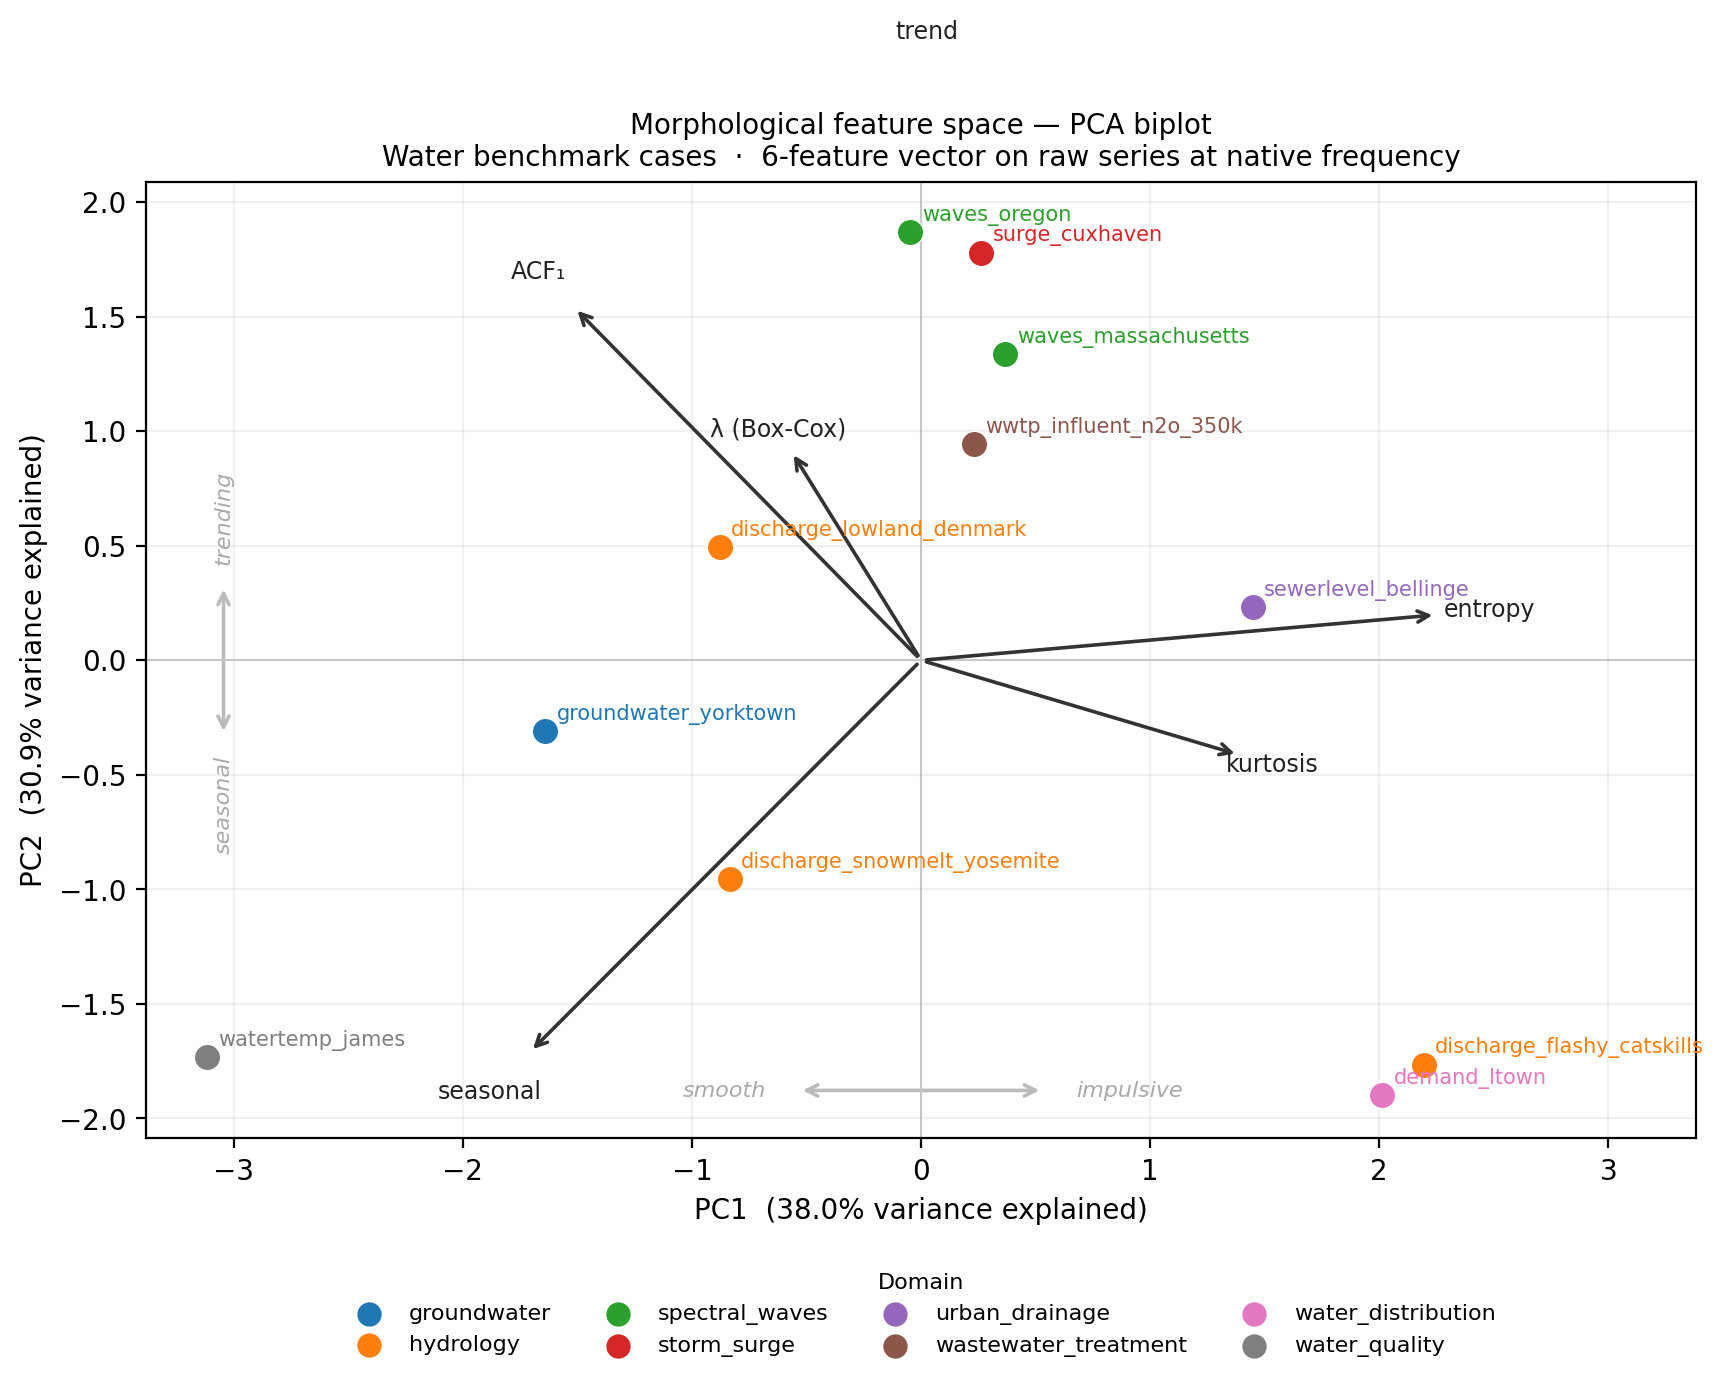
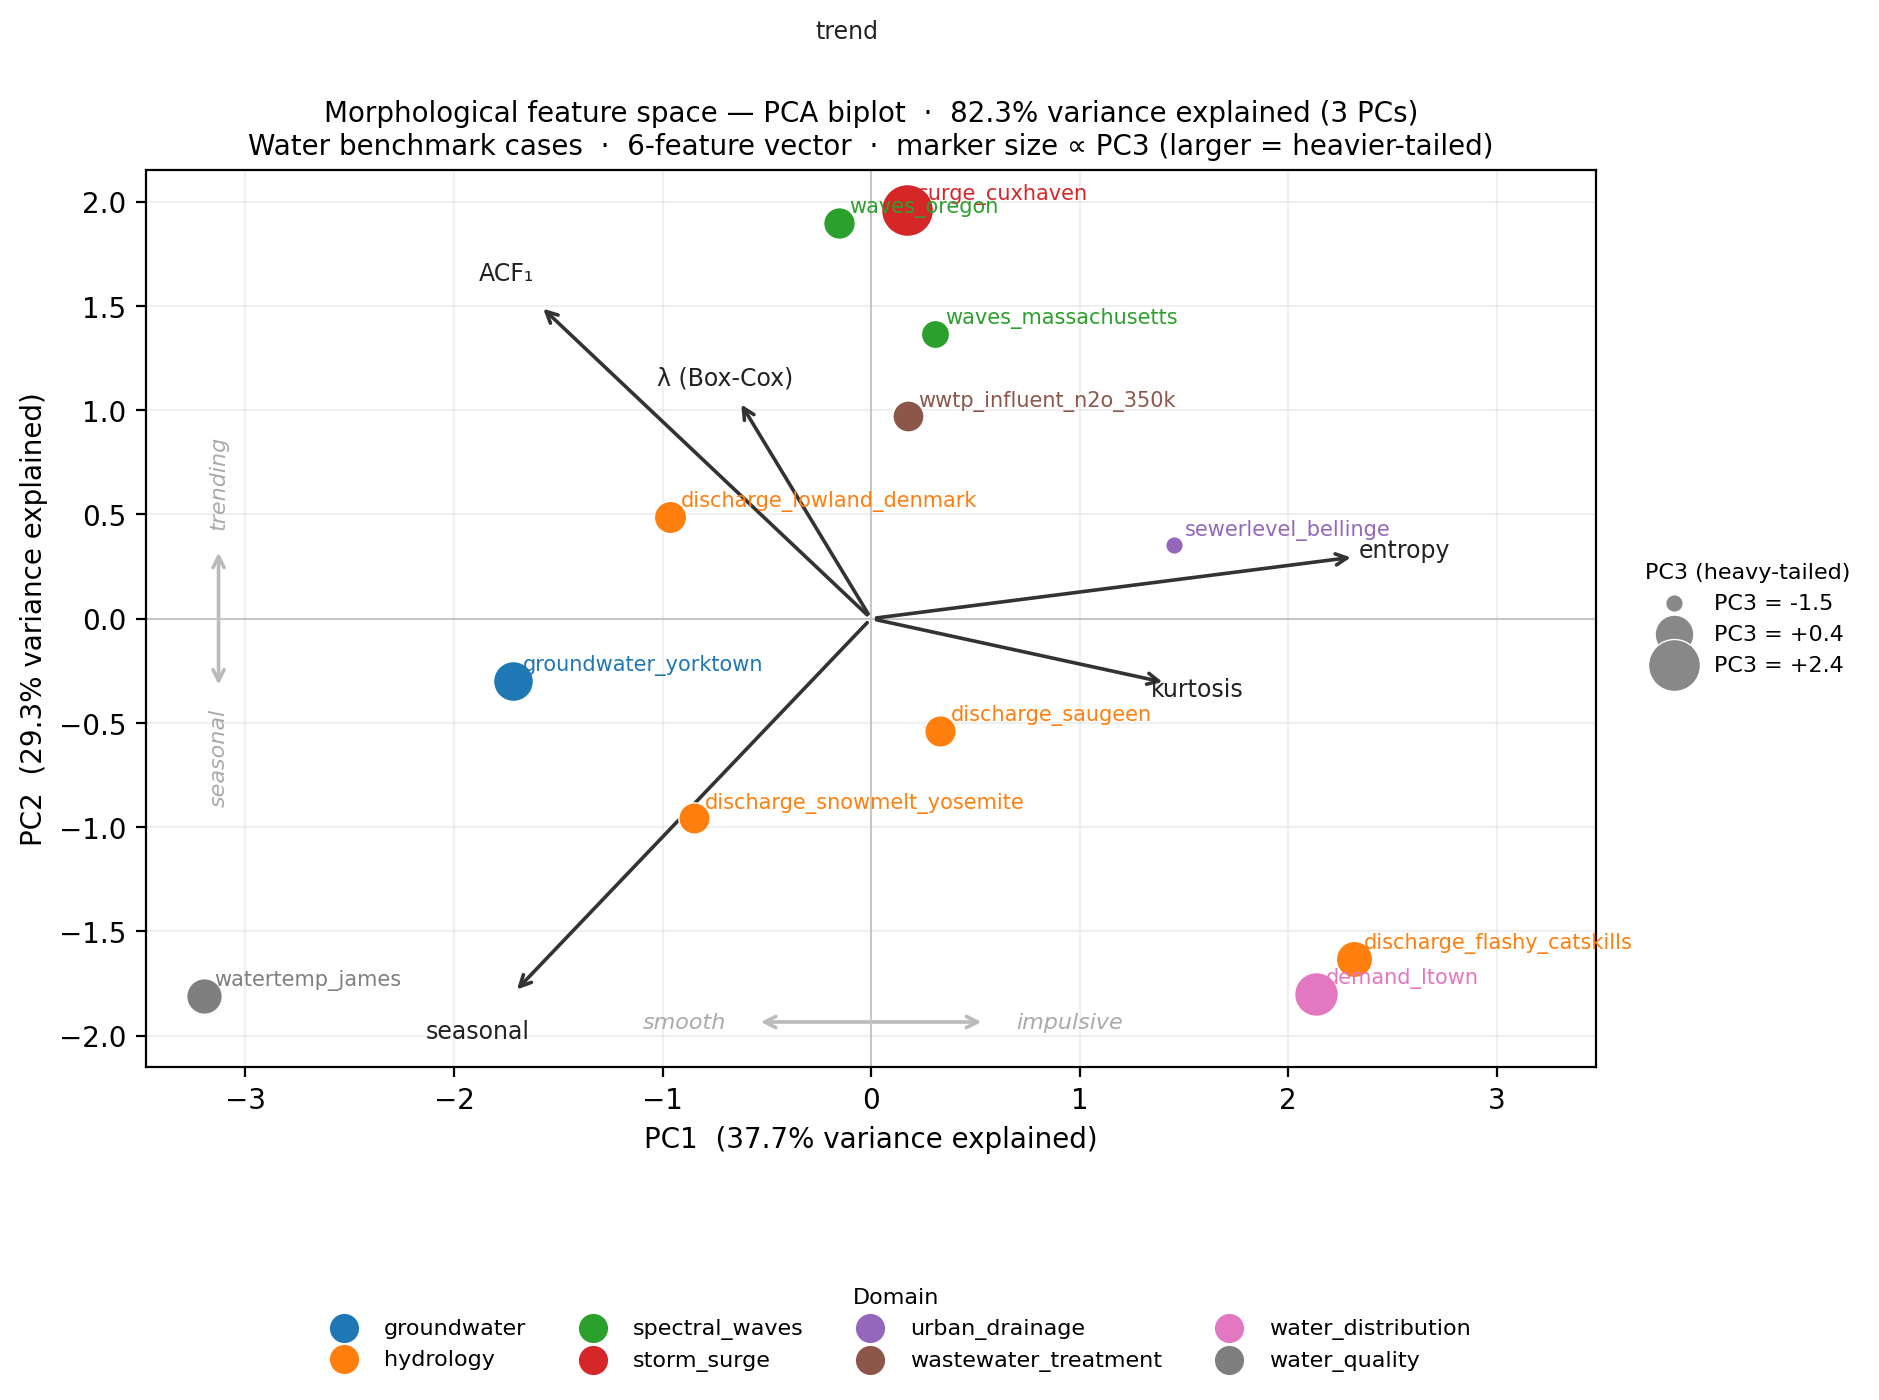
Use 3 PCA components for morphology plot.

diff --git a/scripts/compute_morphology.py b/scripts/compute_morphology.py
@@ -4,7 +4,8 @@ produce a PCA biplot.
 Outputs
 -------
 results/morphology_features.csv        raw feature table (case × 6 features)
-docs/figures/morphology/pca_biplot.png PCA biplot — PC1/PC2 scores + loadings
+docs/figures/morphology/pca_biplot.png PCA biplot — two 2-D projections of the
+                                        3-component PCA (PC1/PC2 and PC1/PC3)
 
 Usage
 -----
@@ -79,18 +80,18 @@ def _run_pca(
 
     Returns
     -------
-    scores_df    DataFrame(index=case_id, columns=[PC1, PC2])
-    loadings_df  DataFrame(index=feature, columns=[PC1, PC2])
-    ev_ratio     explained variance ratios for PC1 and PC2
+    scores_df    DataFrame(index=case_id, columns=[PC1, PC2, PC3])
+    loadings_df  DataFrame(index=feature, columns=[PC1, PC2, PC3])
+    ev_ratio     explained variance ratios for PC1, PC2, PC3
     """
     X = StandardScaler().fit_transform(features_df[FEATURE_COLS].to_numpy())
-    pca = PCA(n_components=2)
+    pca = PCA(n_components=3)
     scores = pca.fit_transform(X)
-    scores_df = pd.DataFrame(scores, index=features_df.index, columns=["PC1", "PC2"])
+    scores_df = pd.DataFrame(scores, index=features_df.index, columns=["PC1", "PC2", "PC3"])
     loadings_df = pd.DataFrame(
         pca.components_.T,
         index=FEATURE_COLS,
-        columns=["PC1", "PC2"],
+        columns=["PC1", "PC2", "PC3"],
     )
     return scores_df, loadings_df, pca.explained_variance_ratio_
 
@@ -107,24 +108,37 @@ def _plot_biplot(
     domains: dict[str, str],
     out: Path,
 ) -> None:
-    """Matplotlib biplot: labelled case scores + feature loading arrows."""
+    """Single-panel biplot: PC1/PC2 axes, PC3 min-max scaled to marker size."""
     fig, ax = plt.subplots(figsize=(10, 7.5))
 
     unique_domains = sorted(set(domains.values()))
     palette = plt.cm.tab10.colors
     domain_colour = {d: palette[i % len(palette)] for i, d in enumerate(unique_domains)}
 
-    for case_id, (pc1, pc2) in scores.iterrows():
-        colour = domain_colour.get(domains.get(case_id, ""), "#888")
-        ax.scatter(pc1, pc2, color=colour, s=90, zorder=3, edgecolors="white", linewidths=0.5)
-        ax.text(pc1 + 0.05, pc2 + 0.05, case_id, fontsize=7.5, color=colour, zorder=4)
+    # Min-max scale PC3 scores → marker area (px²)
+    MIN_S, MAX_S = 40, 350
+    pc3 = scores["PC3"]
+    pc3_min, pc3_max = pc3.min(), pc3.max()
+    def _size(v: float) -> float:
+        return MIN_S + (v - pc3_min) / (pc3_max - pc3_min) * (MAX_S - MIN_S)
 
-    # Scale loading arrows to ~80 % of the score spread
-    score_range = max(scores.abs().max().max(), 1e-9)
-    loading_max = max(loadings.abs().max().max(), 1e-9)
+    for case_id, row in scores.iterrows():
+        colour = domain_colour.get(domains.get(case_id, ""), "#888")
+        ax.scatter(
+            row["PC1"], row["PC2"],
+            color=colour, s=_size(row["PC3"]),
+            zorder=3, edgecolors="white", linewidths=0.5,
+        )
+        ax.text(row["PC1"] + 0.05, row["PC2"] + 0.05, case_id, fontsize=7.5, color=colour, zorder=4)
+
+    # Scale loading arrows to ~80 % of PC1/PC2 score spread
+    load_sub = loadings[["PC1", "PC2"]]
+    score_range = max(scores[["PC1", "PC2"]].abs().max().max(), 1e-9)
+    loading_max = max(load_sub.abs().max().max(), 1e-9)
     arrow_scale = 0.8 * score_range / loading_max
 
-    for feat, (l1, l2) in loadings.iterrows():
+    for feat, row in load_sub.iterrows():
+        l1, l2 = row["PC1"], row["PC2"]
         ax.annotate(
             "",
             xy=(l1 * arrow_scale, l2 * arrow_scale),
@@ -147,9 +161,6 @@ def _plot_biplot(
     ax.axhline(0, color="#ccc", linewidth=0.7, zorder=1)
     ax.axvline(0, color="#ccc", linewidth=0.7, zorder=1)
 
-    # Conceptual axis interpretation: double-headed arrows + labels at each pole.
-    # Placed in axes-fraction coordinates so they sit at fixed positions regardless
-    # of the data range.  Low zorder keeps them behind everything else.
     _ann_kw = {
         "xycoords": "axes fraction",
         "textcoords": "axes fraction",
@@ -163,44 +174,60 @@ def _plot_biplot(
         "style": "italic",
         "zorder": 0,
     }
-
-    # Horizontal: smooth (left) ↔ impulsive (right) — PC1
     ax.annotate("", xy=(0.42, 0.05), xytext=(0.58, 0.05), **_ann_kw)
     ax.text(0.40, 0.05, "smooth", ha="right", va="center", **_txt_kw)
     ax.text(0.60, 0.05, "impulsive", ha="left", va="center", **_txt_kw)
-
-    # Vertical: seasonal (bottom) ↔ trending (top) — PC2
     ax.annotate("", xy=(0.05, 0.42), xytext=(0.05, 0.58), **_ann_kw)
     ax.text(0.05, 0.40, "seasonal", ha="center", va="top", rotation=90, **_txt_kw)
     ax.text(0.05, 0.60, "trending", ha="center", va="bottom", rotation=90, **_txt_kw)
+
     ax.set_xlabel(f"PC1  ({ev_ratio[0]:.1%} variance explained)", fontsize=10)
     ax.set_ylabel(f"PC2  ({ev_ratio[1]:.1%} variance explained)", fontsize=10)
     ax.set_title(
-        "Morphological feature space — PCA biplot\n"
-        "Water benchmark cases  ·  6-feature vector on raw series at native frequency",
+        f"Morphological feature space — PCA biplot  ·  {ev_ratio[:3].sum():.1%} variance explained (3 PCs)\n"
+        "Water benchmark cases  ·  6-feature vector  ·  marker size ∝ PC3 (larger = heavier-tailed)",
         fontsize=10,
     )
 
-    for domain, colour in domain_colour.items():
-        ax.scatter([], [], color=colour, label=domain, s=60)
-    ax.legend(
+    # Domain colour legend — outside, bottom, 2 rows × 4 columns
+    colour_handles = [plt.scatter([], [], color=c, s=90, label=d) for d, c in domain_colour.items()]
+    fig.legend(
+        handles=colour_handles,
         title="Domain",
         fontsize=8,
         title_fontsize=8,
-        loc="upper center",
-        bbox_to_anchor=(0.5, -0.12),
+        loc="lower center",
+        bbox_to_anchor=(0.5, 0.0),
         ncols=4,
         frameon=False,
     )
 
+    # PC3 size legend — outside, right, 3 reference bubbles at min / mid / max
+    ref_vals = [pc3_min, (pc3_min + pc3_max) / 2, pc3_max]
+    size_handles = [
+        plt.scatter([], [], color="#888", s=_size(v), edgecolors="white", linewidths=0.5,
+                    label=f"PC3 = {v:+.1f}")
+        for v in ref_vals
+    ]
+    ax.legend(
+        handles=size_handles,
+        title="PC3 (heavy-tailed)",
+        fontsize=8,
+        title_fontsize=8,
+        loc="center left",
+        bbox_to_anchor=(1.02, 0.5),
+        frameon=False,
+    )
+
+    fig.subplots_adjust(bottom=0.15, right=0.85)
+
     ax.grid(True, alpha=0.18)
     ax.set_aspect("equal", "box")
-    xmin, xmax = ax.get_xlim()
-    m = max(abs(xmin), abs(xmax))
-    ax.set_xlim(-m, m)
-    ymin, ymax = ax.get_ylim()
-    m = max(abs(ymin), abs(ymax))
-    ax.set_ylim(-m, m)
+    xlo, xhi = ax.get_xlim()
+    ax.set_xlim(-max(abs(xlo), abs(xhi)), max(abs(xlo), abs(xhi)))
+    ylo, yhi = ax.get_ylim()
+    ax.set_ylim(-max(abs(ylo), abs(yhi)), max(abs(ylo), abs(yhi)))
+
     out.parent.mkdir(parents=True, exist_ok=True)
     fig.savefig(out, dpi=200, bbox_inches="tight")
     plt.close(fig)
